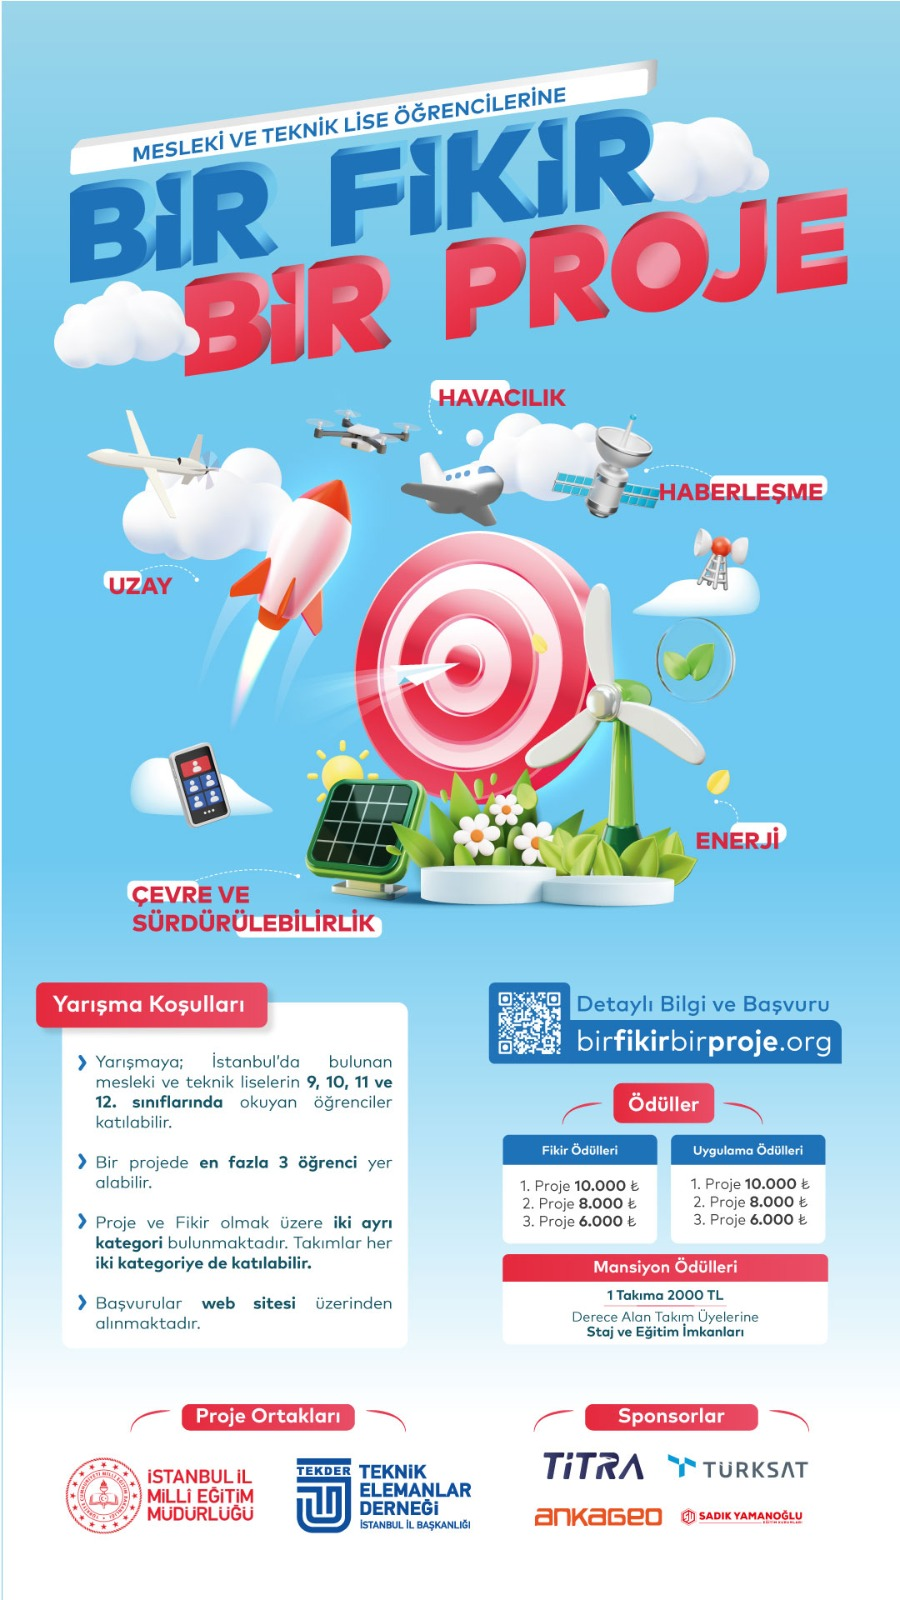
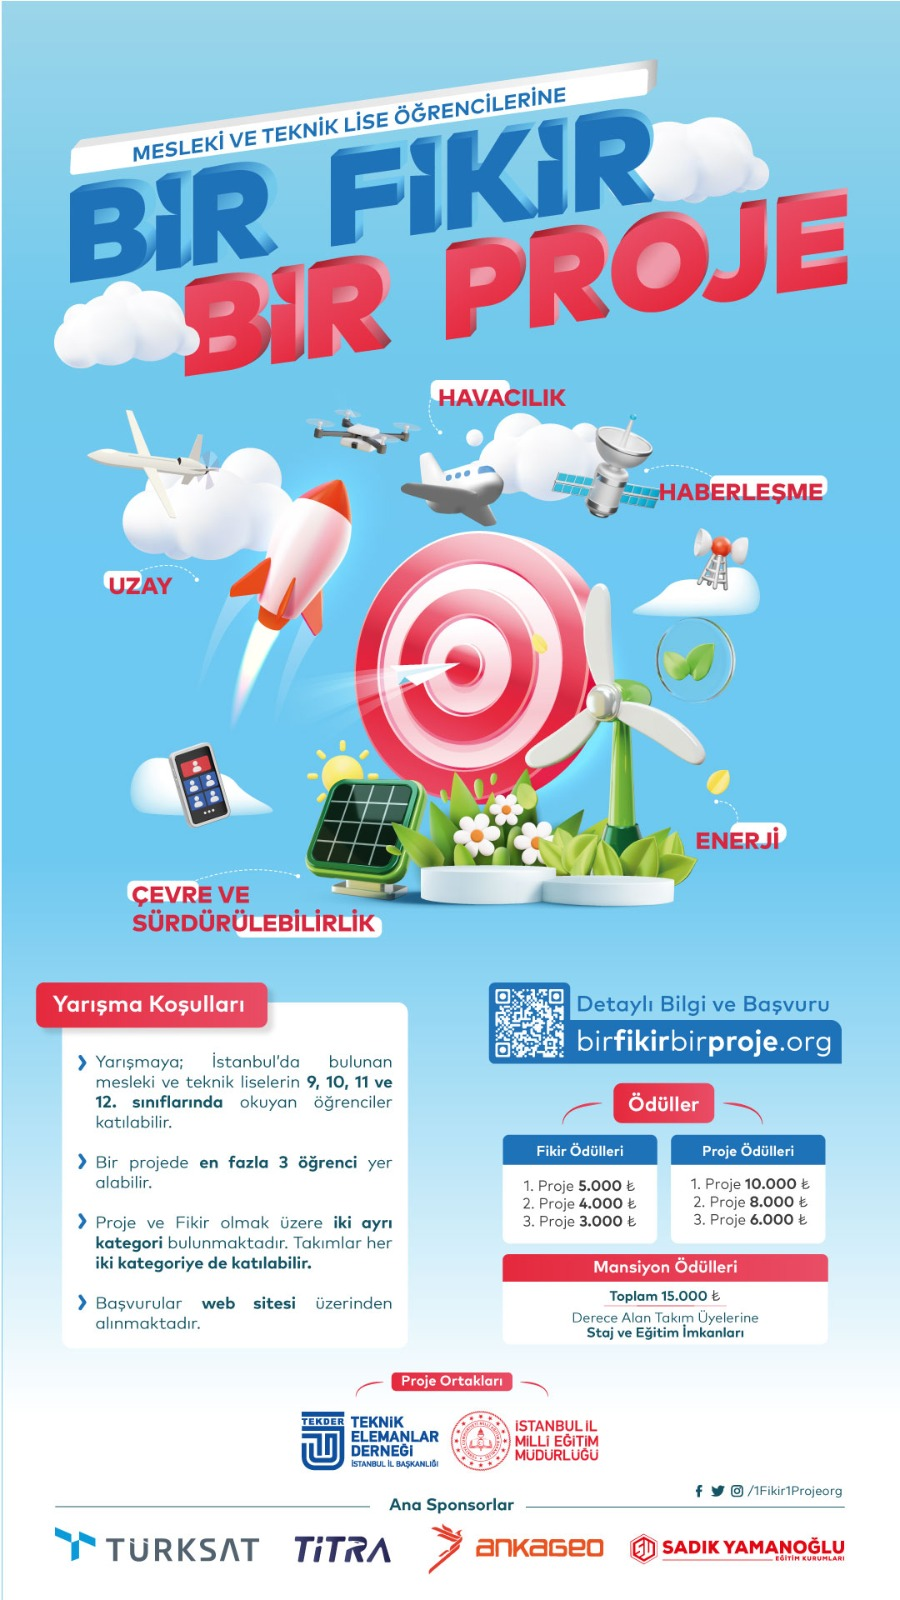
feat: add link to partners

diff --git a/src/components/Partners.vue b/src/components/Partners.vue
@@ -1,35 +1,14 @@
 <template>
-  <!-- <div class="block PartnersBlock">
-    <v-container>
-      <h2 class="text-center">Sponsorlarımız</h2>
-      <v-row>
-        <v-col v-for="item in items" :key="item.id" cols="4" md="4">
-          <v-card class="mx-auto">
-            <v-img
-              class="white--text align-end"
-              cover
-              :src="item.src"
-            >
-            </v-img>
-            <v-card-title class="pb-0" color="black">{{ item.title }}</v-card-title>
-            <v-card-actions class="text-center">
-              <v-btn>
-                <a :href="item.site" target="_blank"> Ziyaret Et</a>
-              </v-btn>
-            </v-card-actions>
-          </v-card>
-        </v-col>
-      </v-row>
-    </v-container>
-  </div> -->
   <v-main>
     <v-container class="mt-5">
       <h1 class="text-center">Proje Sponsorlarımız</h1>
       <v-row class="mt-10">
         <v-col v-for="item in items" :key="item.id" class="d-flex child-flex" cols="6" sm="4">
           <v-card flat tile class="mx-auto">
-            <v-img :src="item.src" max-height="150px" class="grey lighten-2"/>
-            <v-card-text class="text--primary text-center">
+            <a :href="item.site" target="_blank">
+              <v-img :src="item.src" max-height="150px" class="grey lighten-2"/>
+            </a>
+              <v-card-text class="text--primary text-center">
               <div class="title">{{ item.name }}</div>
               <h2>{{ item.title }}</h2>
             </v-card-text>
@@ -47,34 +26,40 @@ export default {
     show: false,
     items: [
       {
-        id: 5,
+        id: 1,
         title: "Türksat",
         src: require("../assets/images/partners/turksat.jpg"),
-      },
-      {
-        id: 1,
-        title: "Titra",
-        src: require("../assets/images/partners/titra.png"),
+        site: 'https://www.turksat.com.tr/tr',
       },
       {
         id: 2,
-        title: "AnkaGeo",
-        src: require("../assets/images/partners/ankageo.jpg"),
+        title: "Titra",
+        src: require("../assets/images/partners/titra.png"),
+        site: 'https://www.titra.com.tr/tr',
       },
       {
         id: 3,
-        title: "Sadık Yamanoğlu",
-        src: require("../assets/images/partners/sadik-yamanoglu.png"),
+        title: "AnkaGeo",
+        src: require("../assets/images/partners/ankageo.jpg"),
+        site: 'https://ankageo.com/',
       },
       {
         id: 4,
+        title: "Sadık Yamanoğlu",
+        src: require("../assets/images/partners/sadik-yamanoglu.png"),
+        site: 'https://sadikyamanoglu.com.tr/',
+      },
+      {
+        id: 5,
         title: "Çevre Norm",
         src: require("../assets/images/partners/cevre-norm.jpeg"),
+        site: 'https://www.cevrenorm.com.tr/',
       },
       {
         id: 6,
         title: "Disan",
         src: require("../assets/images/partners/disan.png"),
+        site: 'https://disan.com.tr/'
       }
 
     ]

diff --git a/src/components/common/Header.vue b/src/components/common/Header.vue
@@ -1,7 +1,7 @@
 <template>
     <v-toolbar flat class="mainHeader" color="white">
-      <v-btn class="ozel">
-        <v-toolbar-title>Bir Fikir Bir Proje</v-toolbar-title>
+      <v-btn href="/" class="ozel">
+        <v-toolbar-title>BİR FİKİR BİR PROJE</v-toolbar-title>
       </v-btn>
       <v-spacer></v-spacer>
     <hr/>
@@ -24,7 +24,7 @@
               v-bind="attrs"
               v-on="on"
             >
-              Bir Fikir Bir Proje
+              BİR FİKİR BİR PROJE
             </v-btn>
           </template> 
           <v-list class="list-class">
@@ -45,9 +45,9 @@
             </v-list-item>
           </v-list>
         </v-menu>
-          <v-btn href="https://forms.gle/jsRzP92W4LqntXfW8" target="_blank" depressed>Başvuru</v-btn>
+          <v-btn href="https://docs.google.com/forms/d/e/1FAIpQLSeka__FUWECLsRS7QzrgcbF6m1aRRk9Tln3kp6NzGpWecoLBw/viewform?usp=sf_link" target="_blank" depressed>Başvuru</v-btn>
         <router-link to="/iletisim">
-          <v-btn depressed>İletişim</v-btn>
+          <v-btn depressed>İLETİŞİM</v-btn>
         </router-link>  
       </v-toolbar-items>
       <div class="hidden-lg-and-up">
@@ -66,13 +66,14 @@
               <v-list-item-title><router-link to="/sponsorlarimiz">Sponsorlarımız</router-link></v-list-item-title>
             </v-list-item>
             <v-list-item>
-              <v-menu offset-y open-on-hover tile>
+              <v-menu offset-y tile>
                 <template @click="menu = false" v-slot:activator="{ on, attrs }">
                   <v-btn
                     v-bind="attrs"
                     v-on="on"
+                    depressed
                   >
-                    Bir Fikir Bir Proje
+                  BİR FİKİR BİR PROJE
                   </v-btn>
                 </template> 
                 <v-list class="list-class" dense>
@@ -95,10 +96,12 @@
               </v-menu>
             </v-list-item>
             <v-list-item>
-              <v-list-item-title><router-link to="/basvuru">Başvuru</router-link></v-list-item-title>
+              <v-list-item-title depressed>
+                <v-btn href="https://docs.google.com/forms/d/e/1FAIpQLSeka__FUWECLsRS7QzrgcbF6m1aRRk9Tln3kp6NzGpWecoLBw/viewform?usp=sf_link" target="_blank" depressed>Başvuru</v-btn>
+              </v-list-item-title>
             </v-list-item>
             <v-list-item>
-              <v-list-item-title><router-link to="/iletisim">İletişim</router-link></v-list-item-title>
+              <v-list-item-title><router-link to="/iletisim">İLETİŞİM</router-link></v-list-item-title>
             </v-list-item>
           </v-list>
         </v-menu>
@@ -142,5 +145,9 @@ background-color: unset;
   font-size: large
 }
 
+
+.theme--light.v-btn.v-btn--has-bg {
+  background-color: #f5f5f500;
+}
 
 </style>

diff --git a/src/components/CurrentPrograms.vue b/src/components/CurrentPrograms.vue
@@ -27,18 +27,16 @@
             <div class="deneme">
             <h1>Fikir Ödülleri</h1>
                 <ul>
-                    <!-- <h1>Fikir Ödülleri</h1> -->
-                    <li>Birincilik ödülü: 10000₺</li>
-                    <li>İkincilik ödülü: 8000₺</li>
-                    <li>Üçüncülük ödülü 6000₺</li>
+                    <li>1.Proje: 5000₺</li>
+                    <li>2.Proje: 4000₺</li>
+                    <li>3.Proje: 3000₺</li>
                 </ul>
             <hr class="my-2" />    
             <h1>Uygulama Ödülleri</h1>
                 <ul>
-                    <!-- <h1>Uygulama Ödülleri</h1> -->
-                    <li>Birincilik ödülü: 10000₺</li>
-                    <li>İkincilik ödülü: 8000₺</li>
-                    <li>Üçüncülük ödülü 6000₺</li>
+                    <li>1.Proje: 10000₺</li>
+                    <li>2.Proje: 8000₺</li>
+                    <li>3.Proje  6000₺</li>
                 </ul> 
             </div>
 

diff --git a/src/components/common/Footer.vue b/src/components/common/Footer.vue
@@ -49,8 +49,8 @@ export default {
     ],
     fikirIcons: [
       {icon:  "fab fa-facebook", src: 'https://www.facebook.com/people/Bir-Fikir-Bir-Proje/100088673027496/'},
-      {icon:  "fab fa-twitter", src: 'https://twitter.com/1Fikirve1Proje'},
-      {icon:  "fab fa-instagram", src: 'https://www.instagram.com/1fikir_1proje/'}    ]
+      {icon:  "fab fa-twitter", src: 'https://twitter.com/1Fikir1Projeorg'},
+      {icon:  "fab fa-instagram", src: 'https://www.instagram.com/1Fikir1Projeorg'}    ]
   })
 };
 </script>

diff --git a/src/scss/layouts/_header.scss b/src/scss/layouts/_header.scss
@@ -1,7 +1,7 @@
 header {
   .v-toolbar__title {
     font-weight: 600;
-    // text-transform: uppercase;
+    text-transform: uppercase;
   }
 
   .v-toolbar__content {
